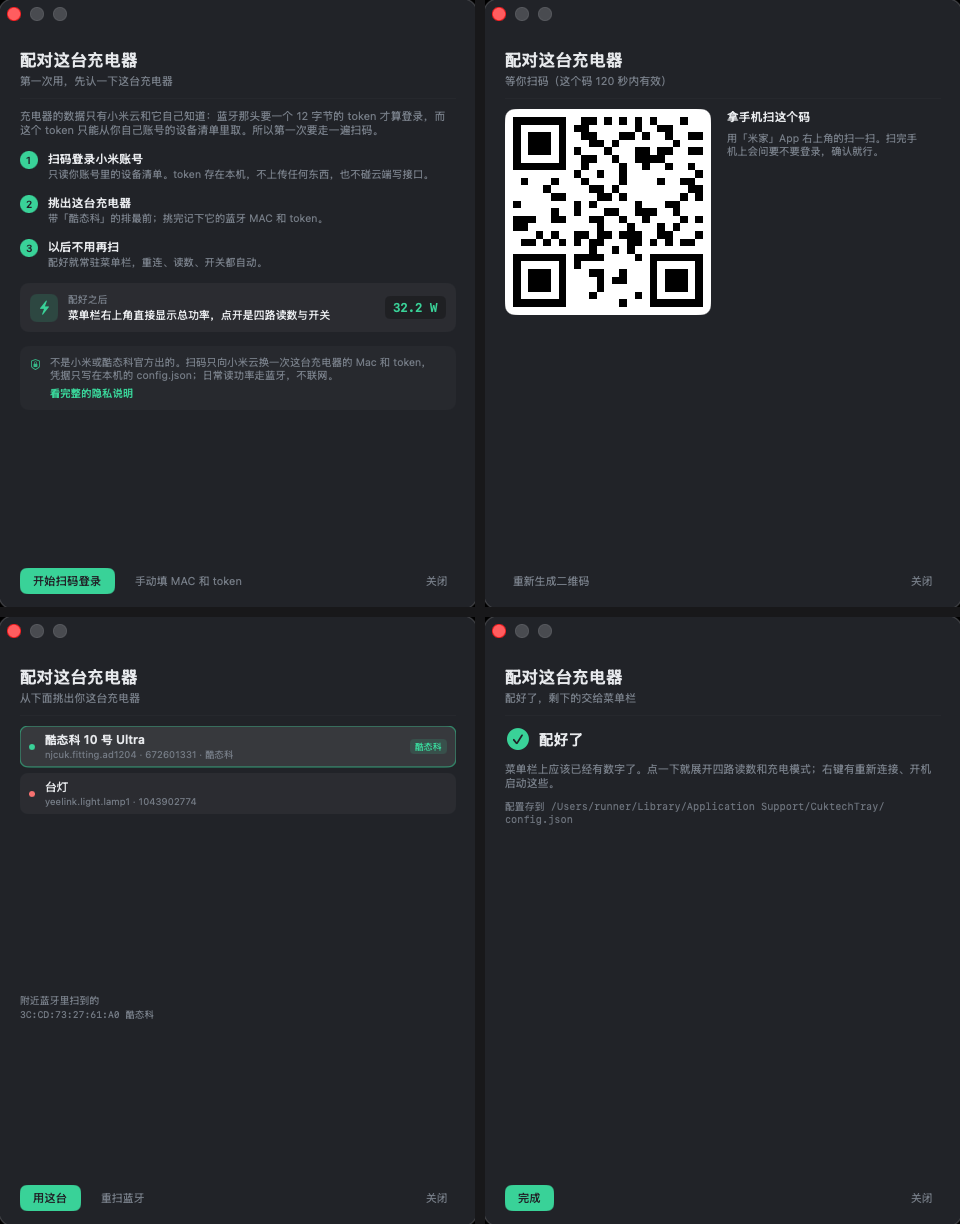
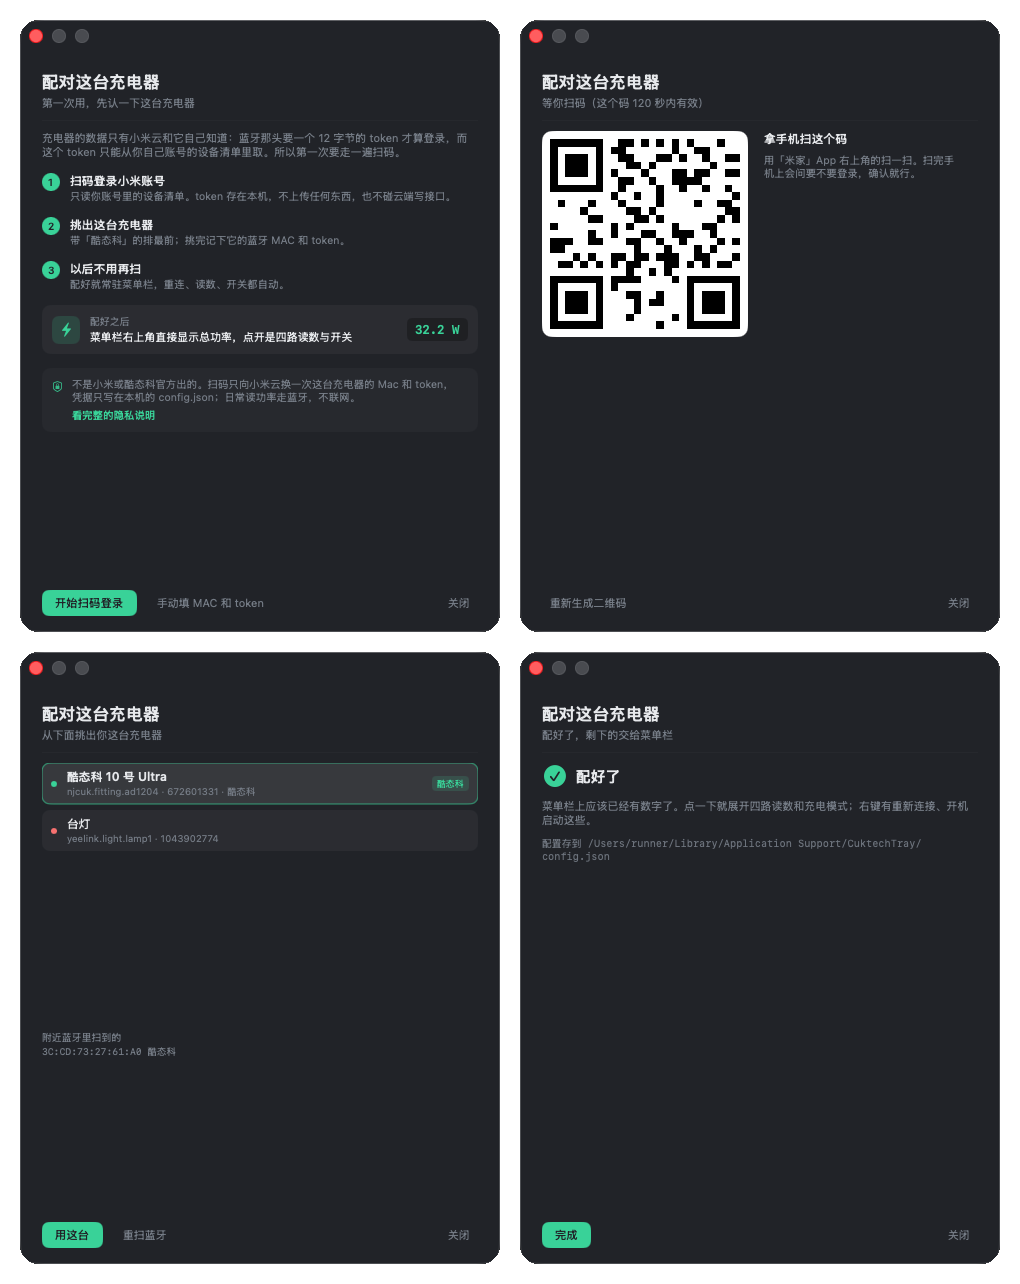
docs: refresh the macOS wizard screenshot for 0.1.2 and mention the consent gate

Changed region(s): [[0.0, 0.0, 1.0, 1.0]]

diff --git a/README.en.md b/README.en.md
@@ -23,6 +23,15 @@ Click the tray icon (or the digits) and the panel opens with voltage / current /
 * Updating does not mean downloading another installer: one click on "Check for updates" and it replaces itself
 * Tens of MB resident, sits quietly in the tray — no popups, no desktop clutter
 
+> 🍎 **The macOS build lives in [`mac/`](mac/README.md)**: same protocol, same colour rules, except the number goes into the
+> menu bar (a system `NSStatusItem`, not a hand-drawn overlay), in pure Swift — the .app is about 1 MB. Feature parity:
+> menu-bar total power, the four-port panel with per-port switches, the QR pairing wizard, C3+A shown as one merged port,
+> and the **privacy notice you must accept on first launch** (same as Windows).
+> The Bluetooth code is fully independent of the UI and its tests run on Linux. macOS has its own version line starting at
+> **0.1.0** instead of following Windows 0.4.x — it is **0.1.2** right now.
+
+![macOS pairing wizard](docs/mac-wizard.png)
+
 ---
 
 > ### 🤖 The code in this repository was written by AI

diff --git a/README.md b/README.md
@@ -26,8 +26,9 @@
 
 > 🍎 **macOS 版在 [`mac/`](mac/README.md)**：同一套协议、同一套取色规则，位置换成菜单栏文字（`NSStatusItem`，
 > 系统级、不是自绘浮层），纯 Swift 写的 .app 约 1 MB。功能对齐：菜单栏总功率、点开四路读数与开关、
-> 扫码配对向导。与自己这台充电器通信的部分完全独立于界面，协议层在 Linux 上都能跑单测。
-> macOS 版的版本号从 **0.1.0** 起自己算，不再跟 Windows 的 0.4.x 绑在一起。
+> 扫码配对向导、C3 与 A 合并成一路显示，以及**第一次打开必须点同意**的隐私说明（和 Windows 一样）。
+> 与自己这台充电器通信的部分完全独立于界面，协议层在 Linux 上都能跑单测。
+> macOS 版的版本号从 **0.1.0** 起自己算，不再跟 Windows 的 0.4.x 绑在一起，当前是 **0.1.2**。
 
 ![macOS 配对向导](docs/mac-wizard.png)
 
